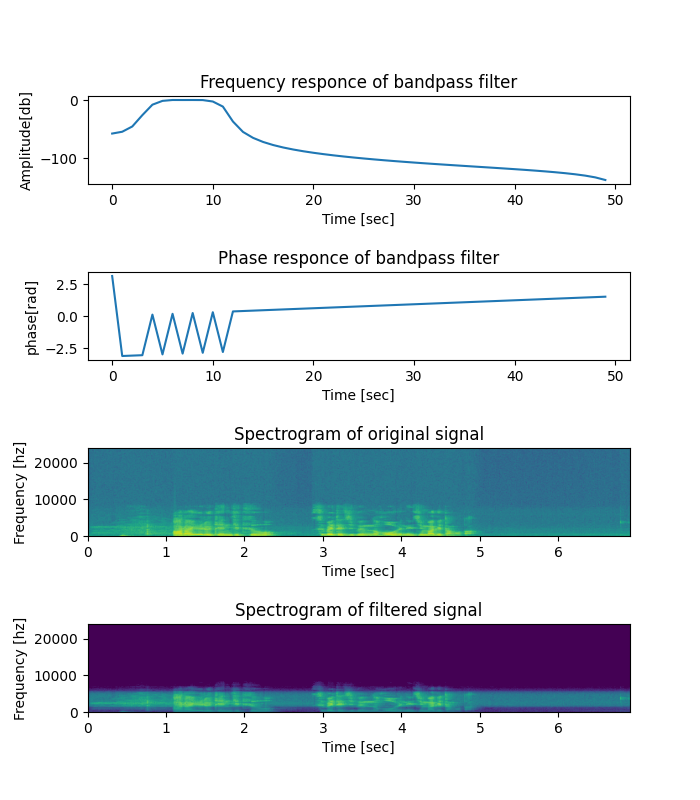
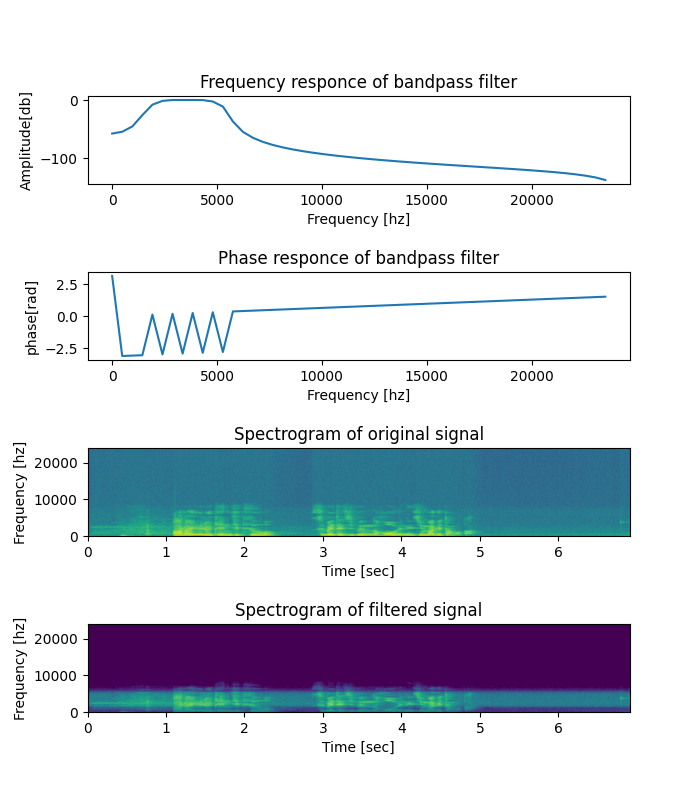
コードレビューに従って修正

diff --git a/ex2/k_furuta/main.py b/ex2/k_furuta/main.py
@@ -129,22 +129,31 @@ if __name__ == "__main__":
     plt.figure(figsize=(7, 8))
     plt.subplots_adjust(wspace=0.4, hspace=1.0)
 
-    # プロット用の時間配列
+    # 周波数特性プロット用配列
+    freq = np.arange(response.shape[0] // 2)
 
     # 周波数特性の表示
     plt.subplot(411)
     # デシベルと振幅の変換 振幅:x -> デシベル:20*log_10(x)
-    plt.plot(20 * np.log10(np.abs(response))[: args.filter_length // 2])
+    plt.plot(
+        freq * rate / 2 / freq.shape[0],
+        20 * np.log10(np.abs(response))[: args.filter_length // 2],
+    )
     plt.title("Frequency responce of bandpass filter")
-    plt.xlabel("Time [sec]")
+    plt.xlabel("Frequency [hz]")
     plt.ylabel("Amplitude[db]")
+
+    # プロット範囲
+    extent = (0, rate / 2, -np.pi, np.pi)
 
     # 周波数特性の表示
     plt.subplot(412)
     # デシベルと振幅の変換 振幅:x -> デシベル:20*log_10(x)
-    plt.plot(np.angle(response)[: args.filter_length // 2])
+    plt.plot(
+        freq * rate / 2 / freq.shape[0], np.angle(response)[: args.filter_length // 2]
+    )
     plt.title("Phase responce of bandpass filter")
-    plt.xlabel("Time [sec]")
+    plt.xlabel("Frequency [hz]")
     plt.ylabel("phase[rad]")
 
     # x軸とy軸の表示範囲
@@ -185,7 +194,7 @@ if __name__ == "__main__":
     plt.ylabel("Frequency [hz]")
 
     # 画像として保存するときはコメントアウトを外す
-    # plt.savefig("result.png")
+    plt.savefig("result.png")
 
     plt.show()
 
